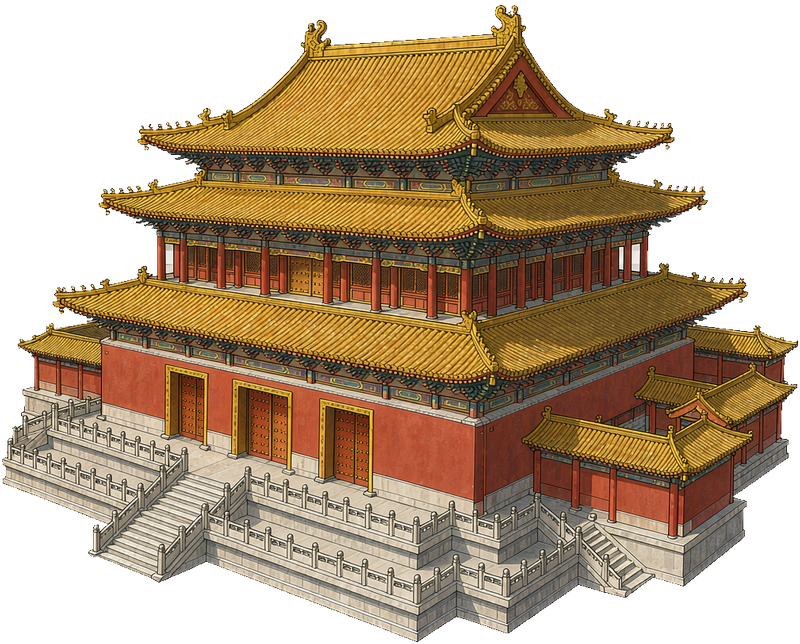
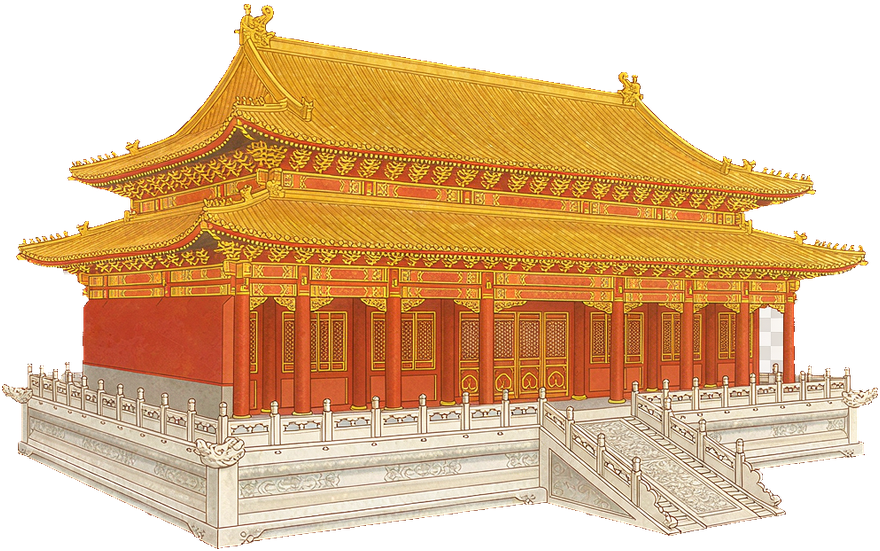
feat(art): 皇宫主殿改为故宫太和殿形制（重檐庑殿顶/单层宽扁/三层须弥座）
AI 新图按 bbox 989×615 等比对齐到 880×551、anchor [440,549]、无留白；10×10 足迹与布局不变。三重檐旧版另存 palace_hall_tower.png，宽扁旧版 palace_hall_wide.png 保留。回归 75/75、build 通过。

diff --git a/shanhai/src/core/iso.ts b/shanhai/src/core/iso.ts
@@ -204,7 +204,7 @@ export const ISO_ANCHOR_OFFSET: Record<string, { ax: number; ay: number }> = {
   // 7×7 鼓楼：anchor_px [229,602] - (spriteW/2, spriteH) = (0, -4)，画布底比足迹前底顶点低 4px
   bell_tower: { ax: 0, ay: -4 },
   // —— 宫城族（palace.py 烘焙，ax = anchor_px.x - spriteW/2, ay = anchor_px.y - spriteH）——
-  palace_hall: { ax: 0, ay: -2 },         // 800×644, anchor [400,642]（AI 宏伟版 10×10）
+  palace_hall: { ax: 0, ay: -2 },         // 880×551, anchor [440,549]（故宫太和殿版 10×10）
   palace_hall_s: { ax: 0, ay: -19 },      // 324×453, anchor [162,434]
   palace_gate: { ax: 32, ay: -5 },        // 206×426, anchor [135,421]
   palace_corner: { ax: 0, ay: -5 },       // 142×422, anchor [71,417]

diff --git a/.workbuddy/memory/2026-11-13.md b/.workbuddy/memory/2026-11-13.md
@@ -14,3 +14,11 @@
 参考图风格重排已落地：32×32 居中宫城、窄券洞四门+角楼、移除护城河改河湾、139 栋民居棋盘街坊、朱红城墙/深灰瓦/鲜绿草地配色；玩法坐标 (62,3)/(16,32) 未动。
 **未完成**：宫城 6 件里只有 palace_hall 是 AI 新版，palace_hall_s / palace_gate / palace_corner / pagoda 仍是旧程序化贴图（用户此前选「先不批量」，后又说「用新的素材把旧的替换了」，范围待确认）。批量时需用 ai_align.py 按各自 sprite_size/anchor_px 对齐，约 20-40 积分。
 **注意**：这是独立仓库，与原仓库的 feat/yunjing-reference-style / main / dev 分支无关联；将来要合并回原仓库需手动同步或另行处理。
+
+## 皇宫主殿整体放大（21:39 后）
+- 用户反馈：新生成的皇宫素材与人物相比整体偏小（不只是门），需整体放大；选「加大足迹到 8×8 或 10×10」，旧素材先保留不分配。
+- 落地：重新 AI 生成宏伟三重檐金瓦大殿（三座殿门、三层汉白玉台基、两侧配殿连廊），实测主体 bbox 1004×803 → 按等比反推画布 800×644（无留白、不变形），anchor_px [400,642]、ay=-2；footprint 6×6→10×10、height 500→680（仍 < pagoda 700）；布局主殿 (61,53,6×6)→(59,52,10×10) 内院北部居中；iso.ts 类型与 ISO_ANCHOR_OFFSET、palace_hall.json、regression.mjs 断言同步。
+- 尺度：显示高度 419→637px（3.7→5.7×人物）、占地菱形宽 384→640px（1.67×）。
+- 旧宽扁素材保留为 public/assets/art/iso/palace_hall_wide.png（已入库，暂不分配）。
+- 验证：诊断脚本玩法点全可走 / A* 全通、npm test 75/75、npm run build 通过；5288 服务 HTTP 200 且返回 800×644 新图。提交 d6c6609。
+- 遗留如实告知：殿门是随整图等比放大 1.52 倍，相对建筑比例未变，对比图上门洞仍略小于 112px 人物标尺；若要门洞本身显著大于人物需再生成「超大殿门」版本。宫城其余 4 件仍是旧程序化，风格差异更明显，批量替换待用户确认。
